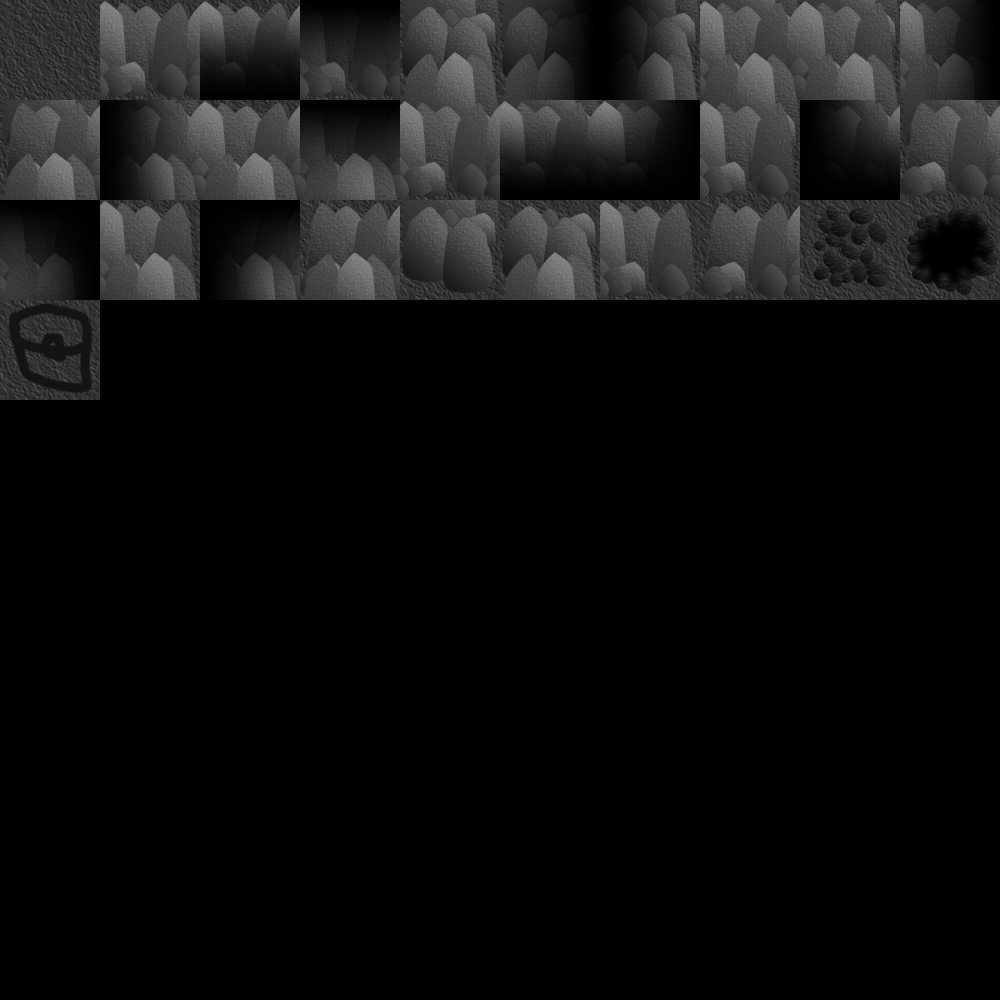
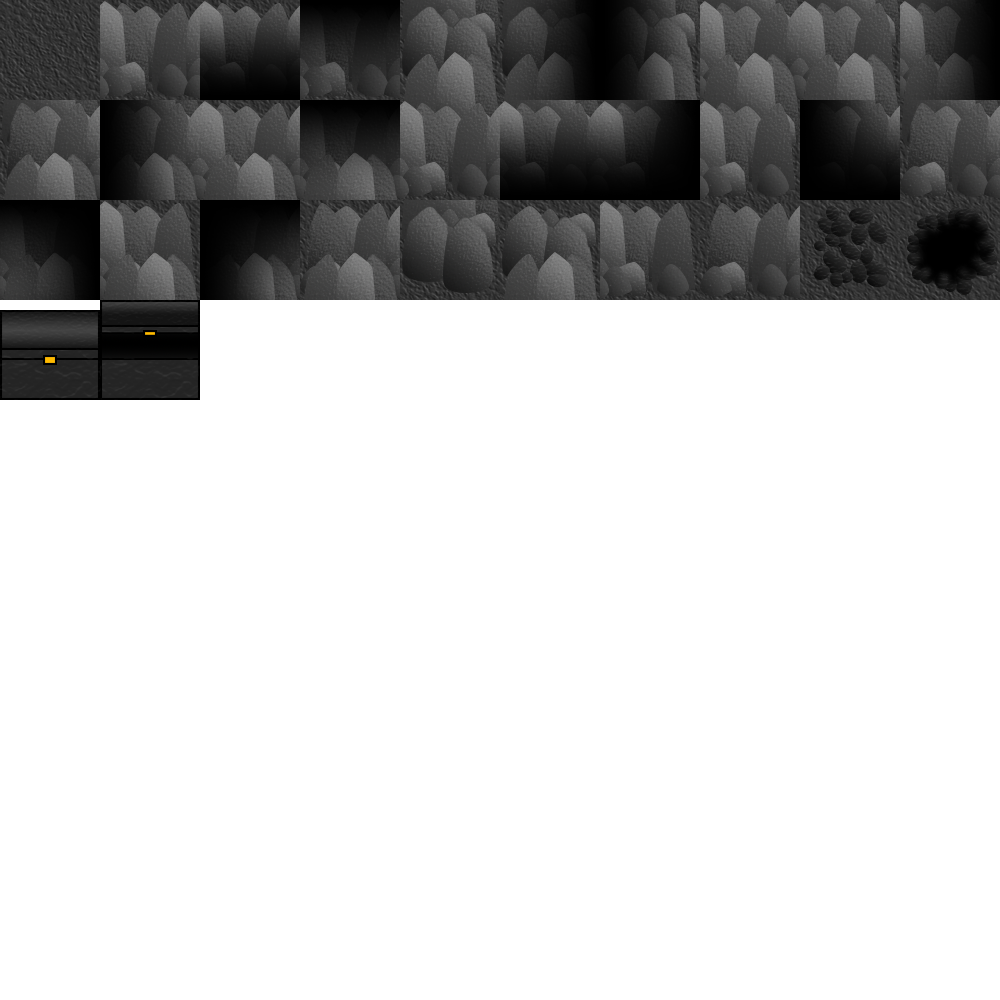
added dungeon1 chest sprites

diff --git a/DungeonFloorGenerator.cpp b/DungeonFloorGenerator.cpp
@@ -232,7 +232,7 @@ DungeonFloor* DungeonFloorGenerator::generate(const char *spriteSheetName, int n
 	std::vector<Chest> chests = std::vector<Chest>();
 	std::ofstream ofs("output.txt");
 	for (int i = 0; i < 10; ++i) {
-		Chest *chest = new Chest("tilemap_dungeon1.png", chest1, 10, 10, Vector3(), 0.5f * TILE_SIZE);
+		Chest *chest = new Chest("tilemap_dungeon1.png", chestc, 10, 10, Vector3(), 0.7f * TILE_SIZE);
 		if (spawnEntity(chest, 0, 1)) {
 			/*int gridX, gridY;
 			worldToTileCoordinates(chest->position.x, chest->position.y, gridX, gridY, mapSize);

diff --git a/Util.h b/Util.h
@@ -7,7 +7,7 @@
 #define MAX_TIMESTEPS 8
 #define TILE_SIZE 0.5f
 
-enum maptiles { O, WE, WEFS, WEFN, NS, NSFE, NSFW, NSWE, NSW, NSWFE, NSE, NSEFW, SWE, SWEFN, NWE, NWEFS, NWFSE, NW, NEFSW, NE, SWFNE, SW, SEFNW, SE, N, S, W, E, enter, X, chest1 };
+enum maptiles { O, WE, WEFS, WEFN, NS, NSFE, NSFW, NSWE, NSW, NSWFE, NSE, NSEFW, SWE, SWEFN, NWE, NWEFS, NWFSE, NW, NEFSW, NE, SWFNE, SW, SEFNW, SE, N, S, W, E, enter, X, chestc, chesto };
 
 class DungeonFloor;
 
